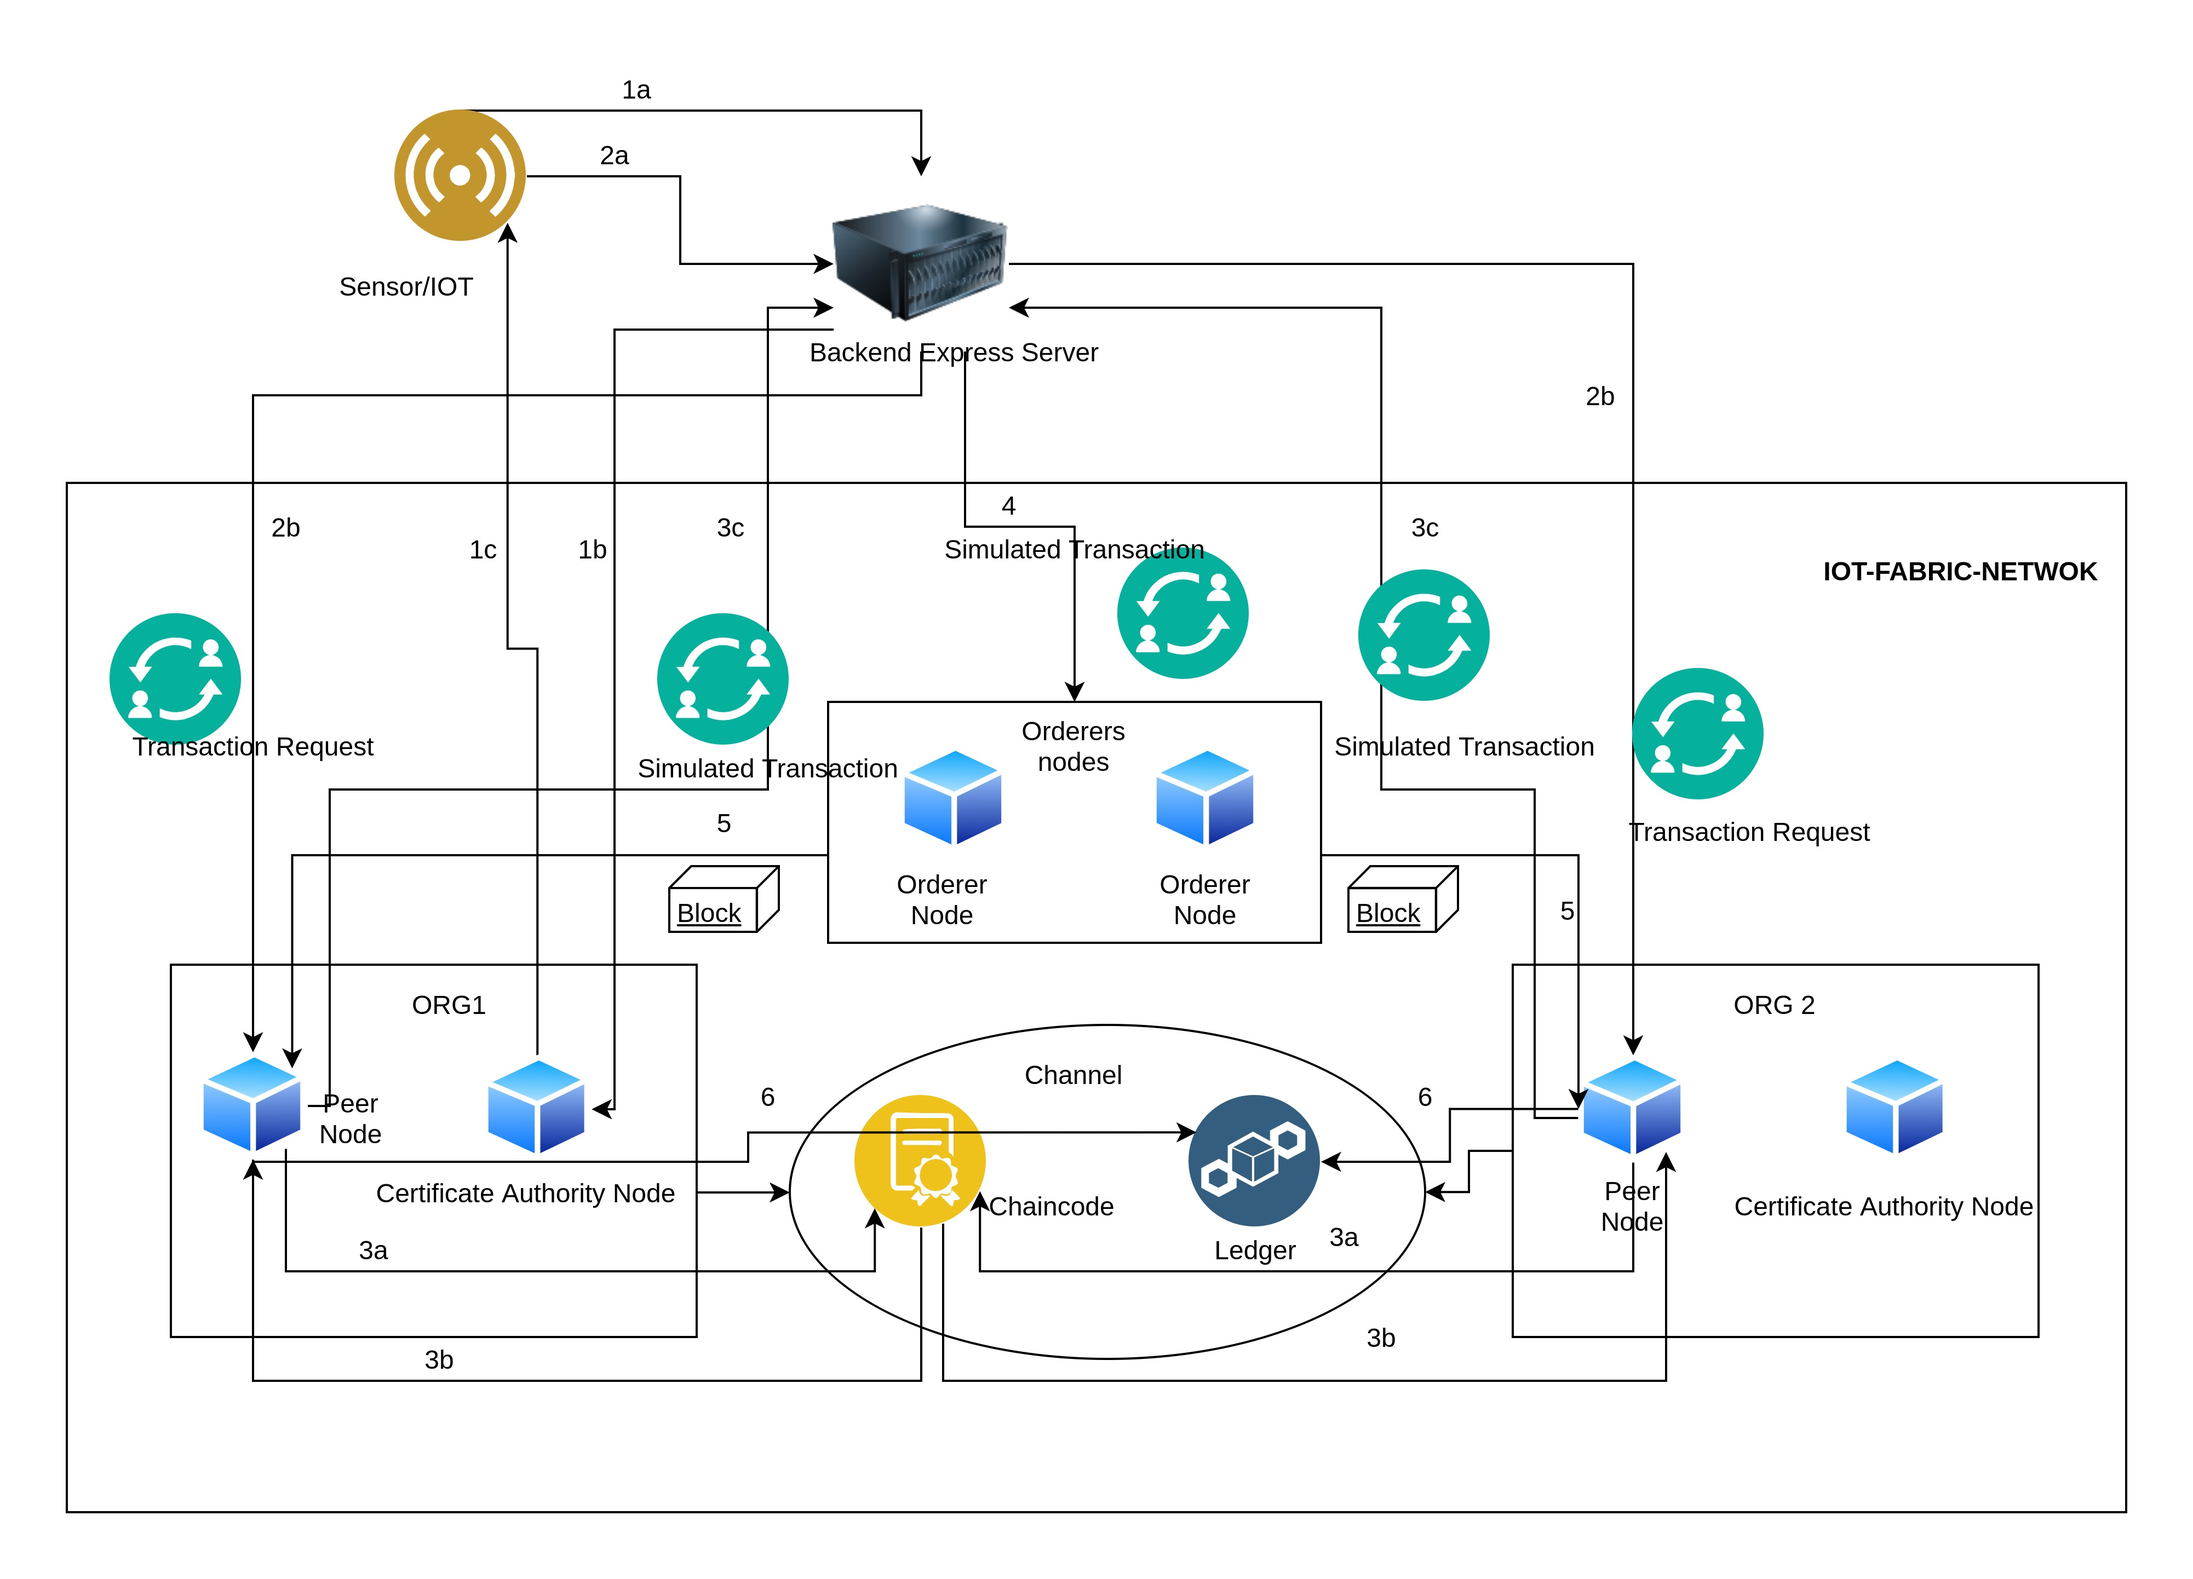
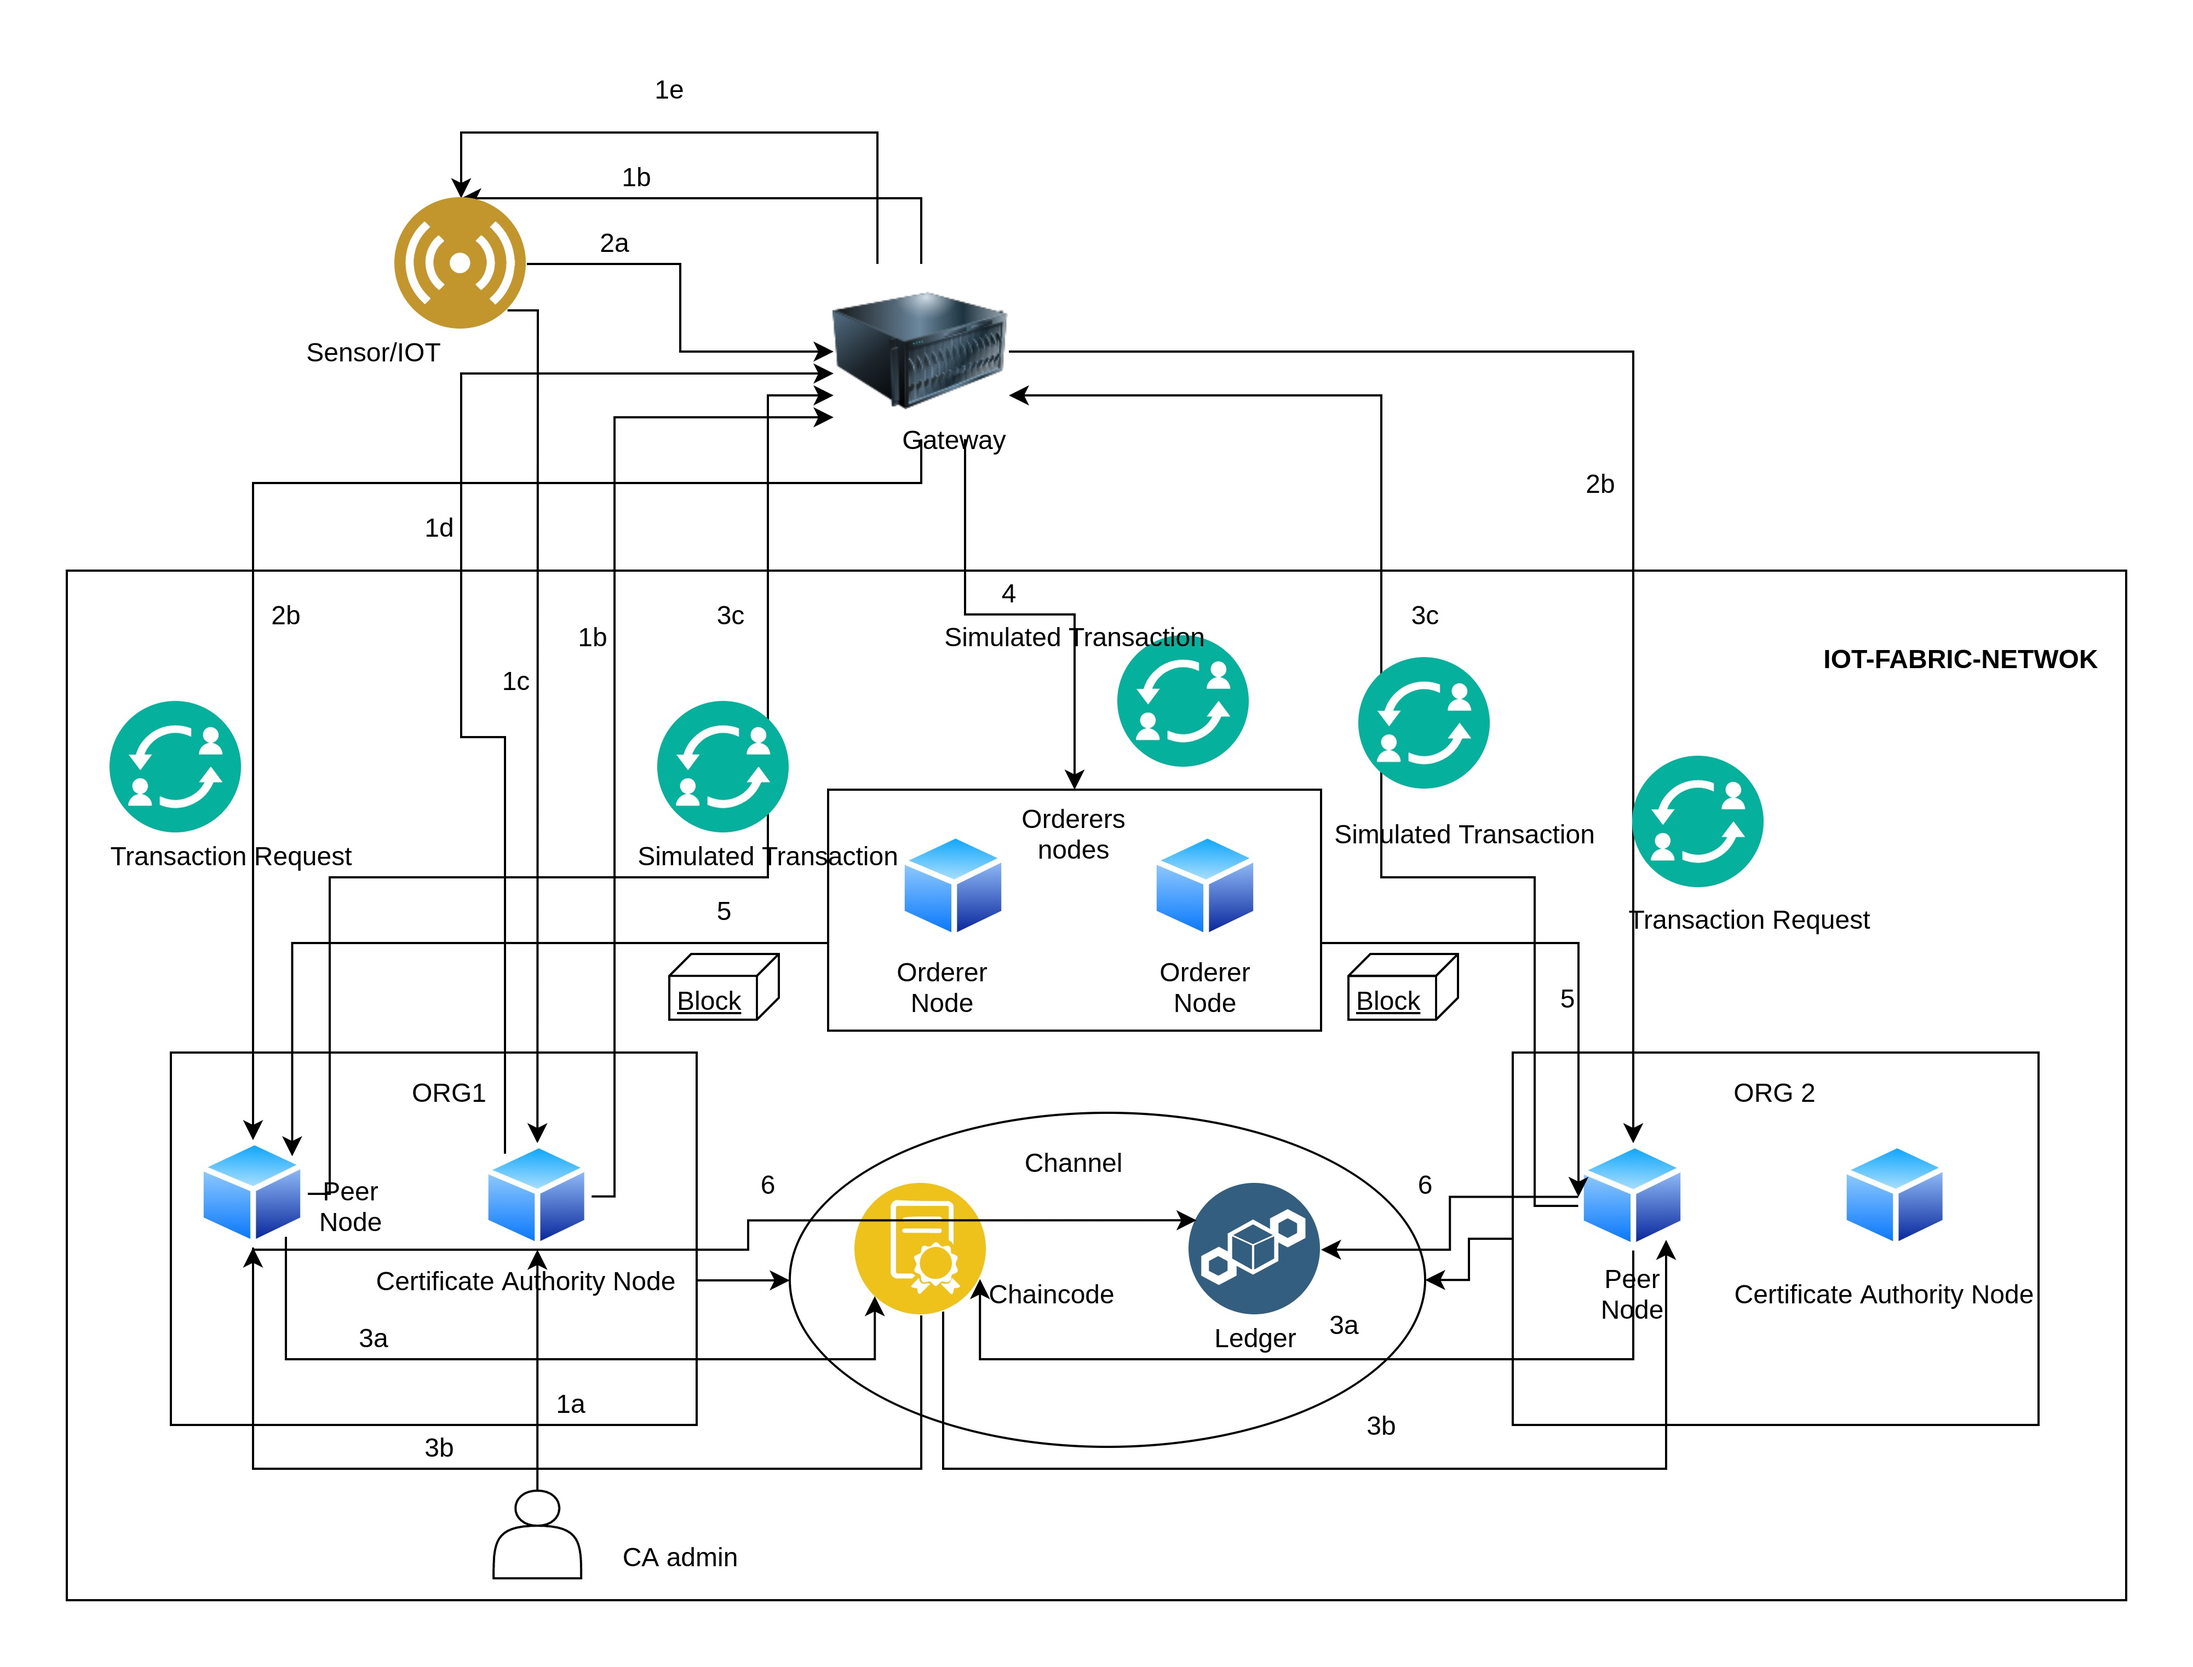
made the architecture diagram more detailed

diff --git a/docs/Architecture.md b/docs/Architecture.md
@@ -2,18 +2,33 @@
 
 ![alt text](https://github.com/ksanjaykumar1/iot-fabric-network/blob/main/docs/IOT-fabroc-network.jpg?raw=true)
 
+How sensor will communicate with the IOT-fabric-network
 
-1. Registering and enrolling 
-   1a. Sensor/IOT will send register and enroll request to backend express server
-   1b. Backend server will send request to Certificate Authority to generate crypto materials and certificates for the  Sensor/IOT 
-   1c. Certificate Authority (CA)  will create crypto martieral and certificate for sensor/IOT and send it to sensor/IOT, these crypto material and certificates are needed for communicating with the network
-2. Transaction 
-   2a. Sensor will send request to  backend express server to create a transaction
-   2b. Backend server will create a transaction request and send it to all the peer,
-3. Transaction Execution 
-   3a. Peers will receive the transaction request and authenticate the sensor/IOT’s certificate 
-   3b. Peer will invoke the chaincode and simulate the transaction by reading the current ledger state and running the chaincode to get the values , and adding these read values and write values which peer got from running the chaincode (R-W set).
-   3c. Each peer will send the simulated transaction to the backend server
-4. Once the backend server will collect the simulated transaction from peers , then it will send the transaction to orderer nodes 
-5. Orderer will take the transaction and put the transaction into the block and send the block to peer nodes
-6. Peer nodes will validate the transaction and then commit it to the ledger.
+
+1. Registering and enrolling new IOT device
+   
+   a. The admin of the certificate Authority(CA) registers the identity of the device into CA’s server.
+
+   b. CA’s admin will send the enrollment ID and password to the IOT device.
+
+   c. The IOT device will enroll by sending a request to CA’s server with enrollment ID and password  
+
+   d. CA will receive the public key-private key and crypto material needed to communicate to the gateway
+   
+   e. Gateway will send it back to the IoT device
+1. Transaction Request
+   
+   a. Sensor will send request to  Gateway to create a transaction
+
+   b. Gateway will create a transaction request and send it to all the peer,
+2. Transaction Simulation 
+   
+   a. Peers will receive the transaction request and authenticate the sensor/IOT’s certificate 
+
+   b. Peer will invoke the chaincode and simulate the transaction by reading the current ledger state and running the chaincode to get the values , and adding these read values and write values which peer got from running the chaincode (R-W set).
+
+   c. Each peer will send the simulated transaction to the Gateway
+3. Once the Gateway will collect the simulated transaction from peers , then it will send the transaction to orderer nodes 
+4. Orderer will take the transaction and put the transaction into the block and send the block to peer nodes
+5. Peer nodes will validate the transaction and then commit it to the ledger.
+
